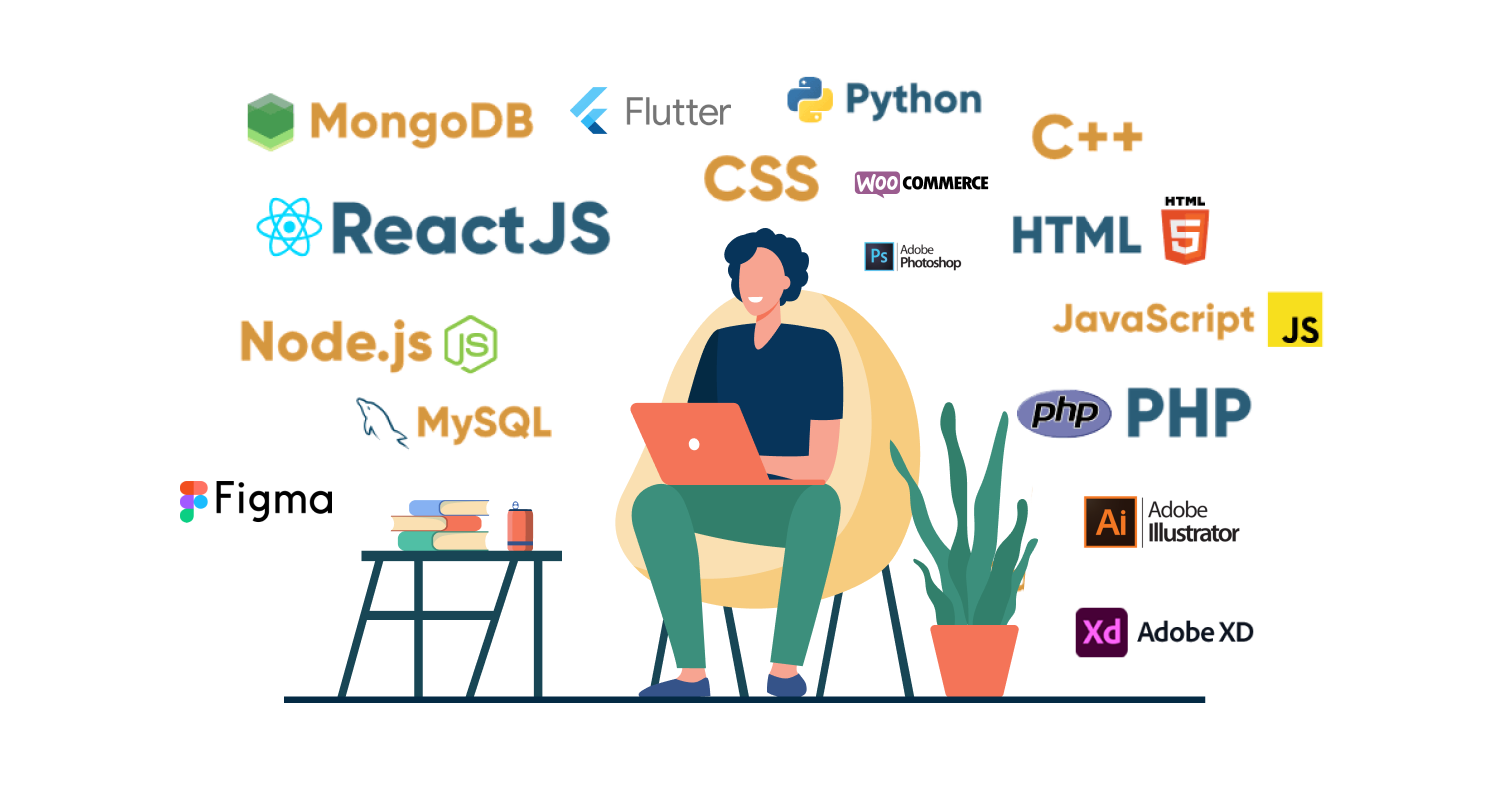
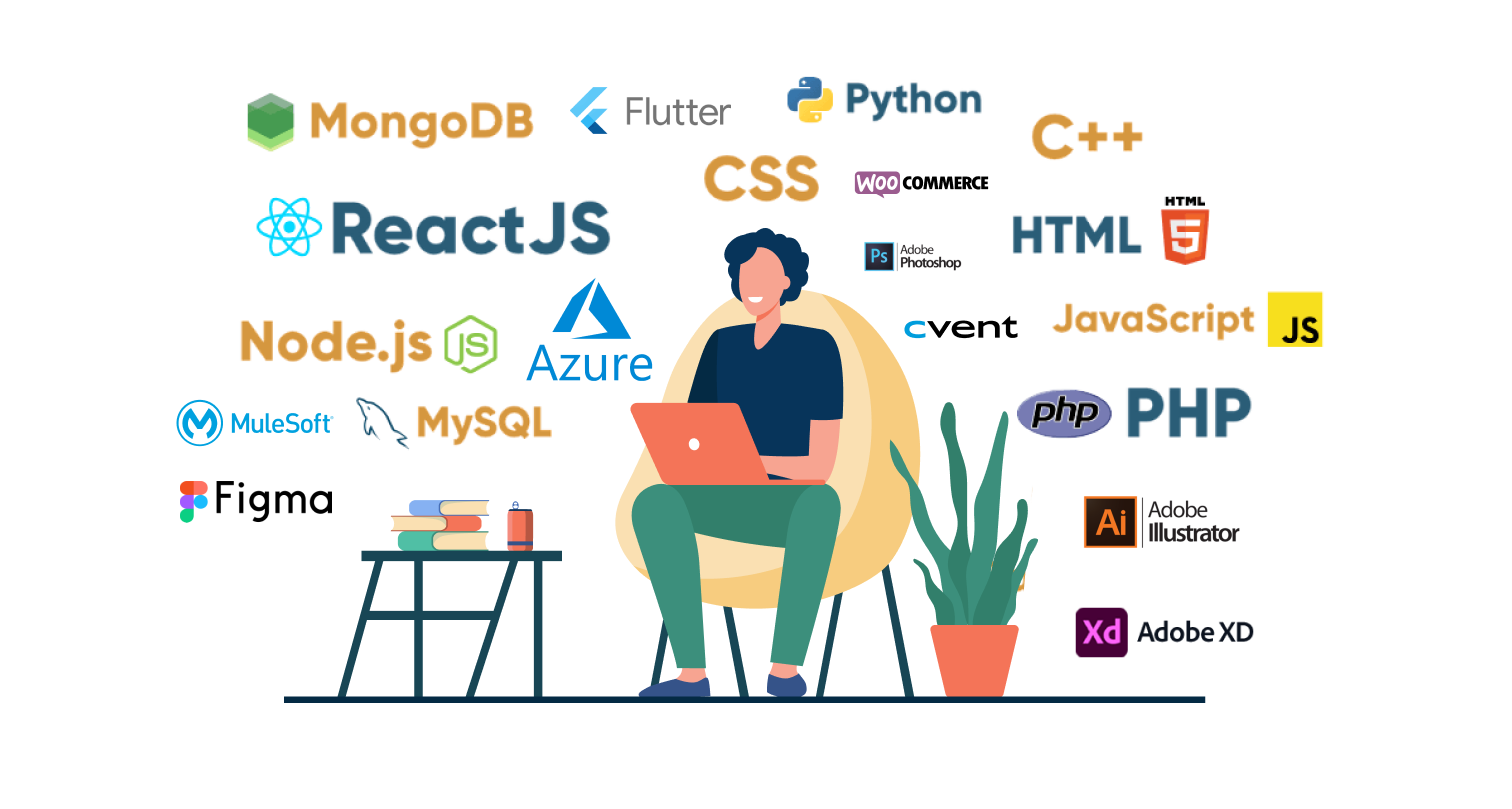
changes

Changed region(s): [[0.3419, 0.3399, 0.4352, 0.4944], [0.0933, 0.4944, 0.2176, 0.5562], [0.5906, 0.3708, 0.6839, 0.4326]]

diff --git a/src/components/expertise/index.js b/src/components/expertise/index.js
@@ -3,7 +3,7 @@ import { Container } from 'reactstrap';
 import img1 from "../../assets/images/expertise/tibc.png";
 import img2 from "../../assets/images/expertise/aws.png";
 import img3 from "../../assets/images/expertise/open.png";
-import img4 from "../../assets/images/expertise/azure-logic.png";
+import img4 from "../../assets/images/expertise/azure.png";
 import img5 from "../../assets/images/expertise/ibm-tivoli.png";
 import img6 from "../../assets/images/expertise/cvent.png";
 import img7 from "../../assets/images/expertise/pm-institute.png";
@@ -90,30 +90,11 @@ const Expertise = () => {
         {expertiseLogo.map((item, index) => {
             return (
               <div className='expertise-logo__box'>
-                <img src={item.img} className={`img-fluid ${index === 1 ? 'img1' : index === 8 ? 'img2' : ''}`} alt="expertise" />
+                <img src={item.img} className={`img-fluid ${index === 1 ? 'img1' : index === 3 ? "img3" : index === 8 ? 'img2' : ''}`} alt="expertise" />
               </div>
             )
           })}
-          {/* <div>
-            <h3>1</h3>
-          </div>
-          <div>
-            <h3>2</h3>
-          </div>
-          <div>
-            <h3>3</h3>
-          </div>
-          <div>
-            <h3>4</h3>
-          </div>
-          <div>
-            <h3>5</h3>
-          </div>
-          <div>
-            <h3>6</h3>
-          </div> */}
         </Slider>
-        
       </Container>
       {/* <Container>
         <h2 className='main-title text-center'>Our Expertise</h2>

diff --git a/src/components/services/index.js b/src/components/services/index.js
@@ -6,6 +6,8 @@ import service3 from "../../assets/images/home/blockchain.png";
 import service4 from "../../assets/images/home/qa.png";
 import service5 from "../../assets/images/home/game-dev.png";
 import service6 from "../../assets/images/home/ui-ux.png";
+import service7 from "../../assets/images/home/integration.png";
+import service8 from "../../assets/images/home/support.png";
 
 const services = [
   {
@@ -17,6 +19,16 @@ const services = [
     img: service2,
     title: 'Web App Development',
     info: 'Your web app partner for cutting-edge tech and user-centric design, driving digital transformation.'
+  },
+  {
+    img: service7,
+    title: 'Integration Services',
+    info: 'Seamless integration solutions for optimized workflows, connecting your systems effortlessly for enhanced efficiency and productivity'
+  },
+  {
+    img: service8,
+    title: 'Software development and Support',
+    info: 'Comprehensive software development and support services, ensuring robust solutions and continuous assistance for your evolving needs.'
   },
   {
     img: service3,

diff --git a/src/assets/styles/home.scss b/src/assets/styles/home.scss
@@ -95,6 +95,11 @@
           height: 110px;
           margin-top: 14px;
         }
+        &.img3 {
+          width: 100px;
+          height: 100px;
+          margin-top: 14px;
+        }
         @media (max-width: 1400px) {
           max-width: 88%;
         }
@@ -330,6 +335,12 @@
           background: #48A7FF;
         }
         &.box-5 {
+          background: #1ecd1e;
+        }
+        &.box-6 {
+          background: #d8c70b;
+        }
+        &.box-7 {
           background: #F5497C;
         }
       }
@@ -444,6 +455,7 @@
 }
 .contact-form {
   background-color: #fff;
+  padding: 0px 0px 80px 0px;
   &__main {
     background-color: #f6f6f6;
     border-radius: 8px;

diff --git a/src/layout/Footer.js b/src/layout/Footer.js
@@ -8,11 +8,14 @@ const contactDetails = [
   {
     id: 1,
     country: "UK",
-    phone: "+44 758 841 8605",
-    phoneLink: "+447588418605",
+    phone: "+44 20 8129 4676",
+    // phone: "+44 758 841 8605",
+    phoneLink: "+442081294676",
+    // phoneLink: "+447588418605",
     email: "info@nextuicorn.uk",
     emailLink: "info@nextuicorn.uk",
-    address: "11 Rydons Lane, Coulsdon, CR5 1SU, UK",
+    // address: "11 Rydons Lane, Coulsdon, CR5 1SU, UK",
+    address: "167-169, Great Portland Street, 5th floor, London, W1W 5PF",
   },
   {
     id: 2,

diff --git a/src/components/safe-hands/index.js b/src/components/safe-hands/index.js
@@ -13,7 +13,8 @@ const safeCards = [
     lineImg: icon1,
     icon: expIcon,
     heading: 'Experience',
-    info: 'Managed by seasoned professionals with a combined 50+ years of experience.'
+    info: 'Managed by seasoned professionals with 15+ years of experience and delivery to hundreds of clients.'
+    // info: 'Managed by seasoned professionals with a combined 50+ years of experience.'
   },
   {
     lineImg: icon2,

diff --git a/src/pages/home/index.js b/src/pages/home/index.js
@@ -20,7 +20,7 @@ const Home = () => {
       <TechStacks />
       <Lifecycle />
       <SafeHands />
-      <WhoWeAre />
+      {/* <WhoWeAre /> */}
       {/* <OurStory /> */}
       <Services />
       <section className="contact-form" id="contact-us">

diff --git a/src/components/tech-stacks/index.js b/src/components/tech-stacks/index.js
@@ -1,6 +1,6 @@
 
 import { Container } from 'reactstrap';
-import techImg from "../../assets/images/home/texh-stack2.png";
+import techImg from "../../assets/images/home/tech-stacks.png";
 
 const TechStacks = () => {
   return (
